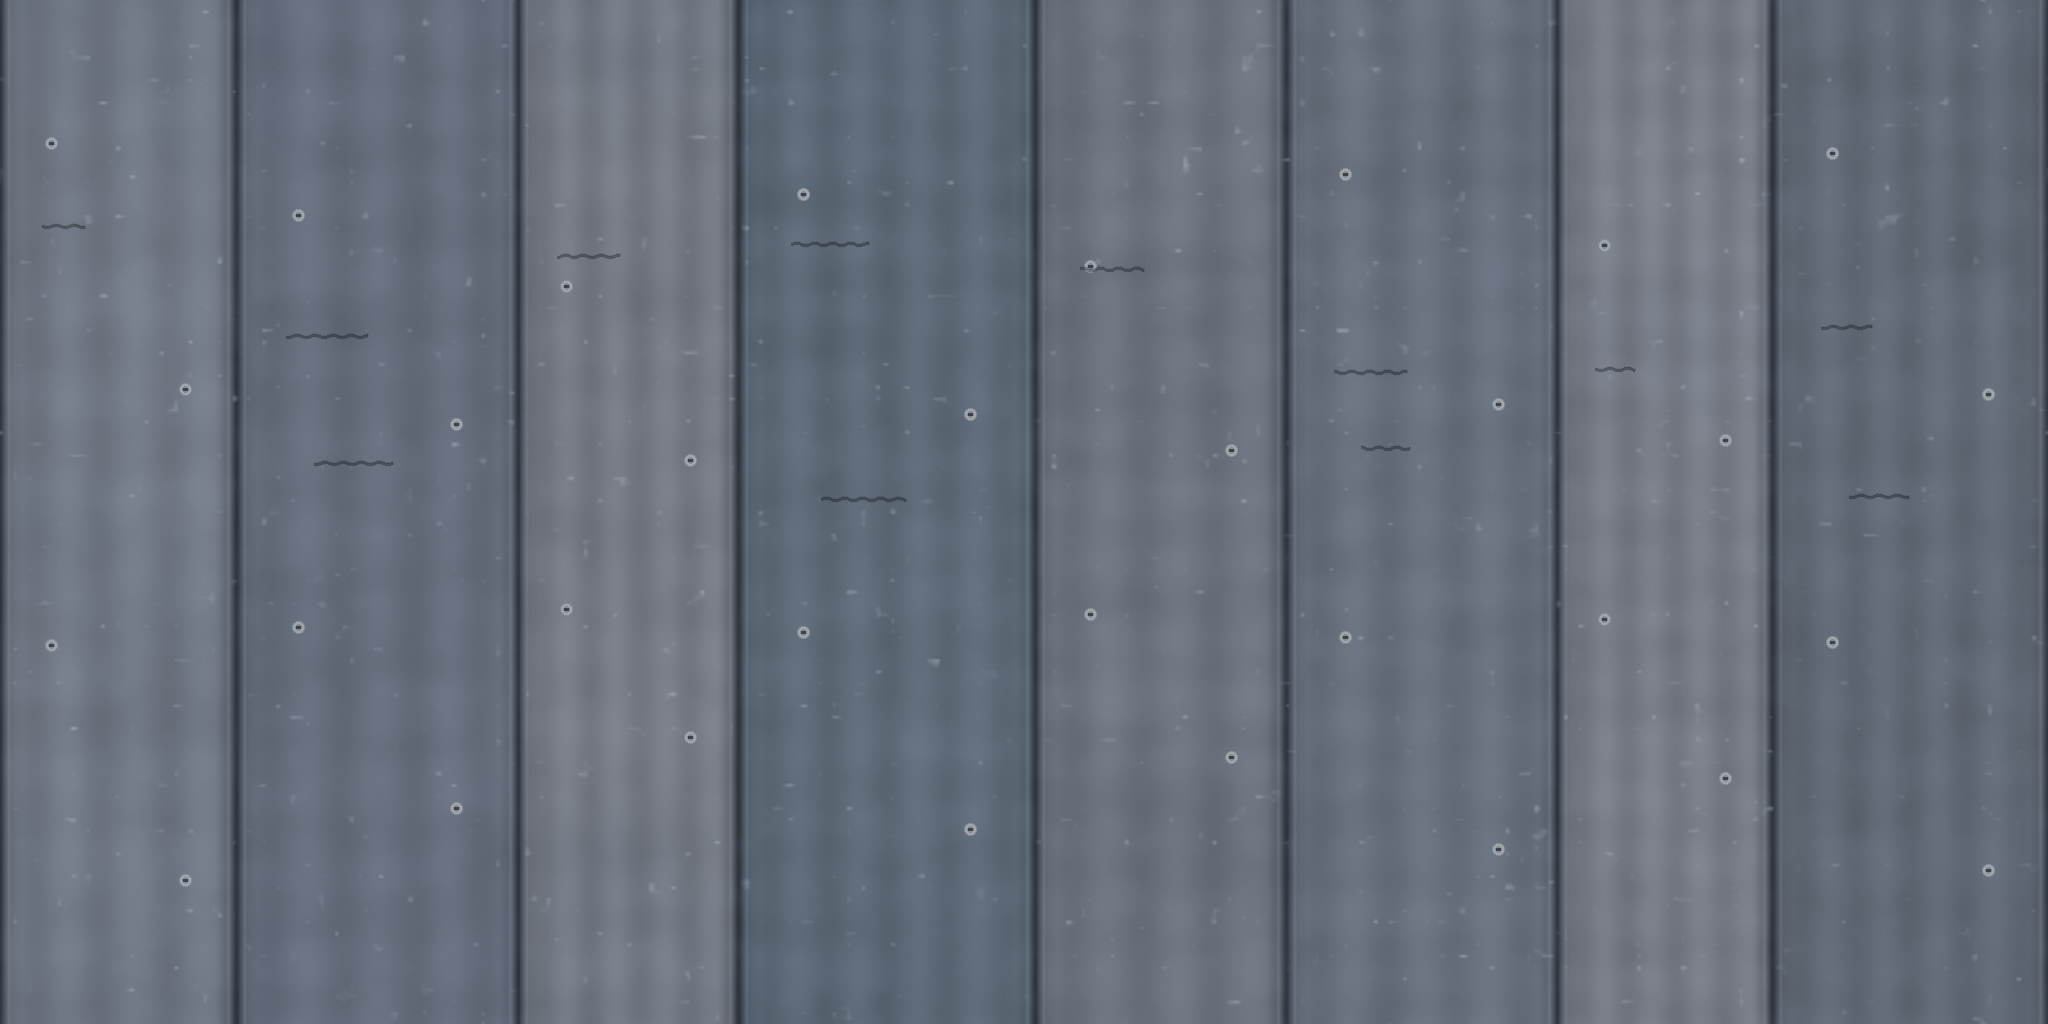
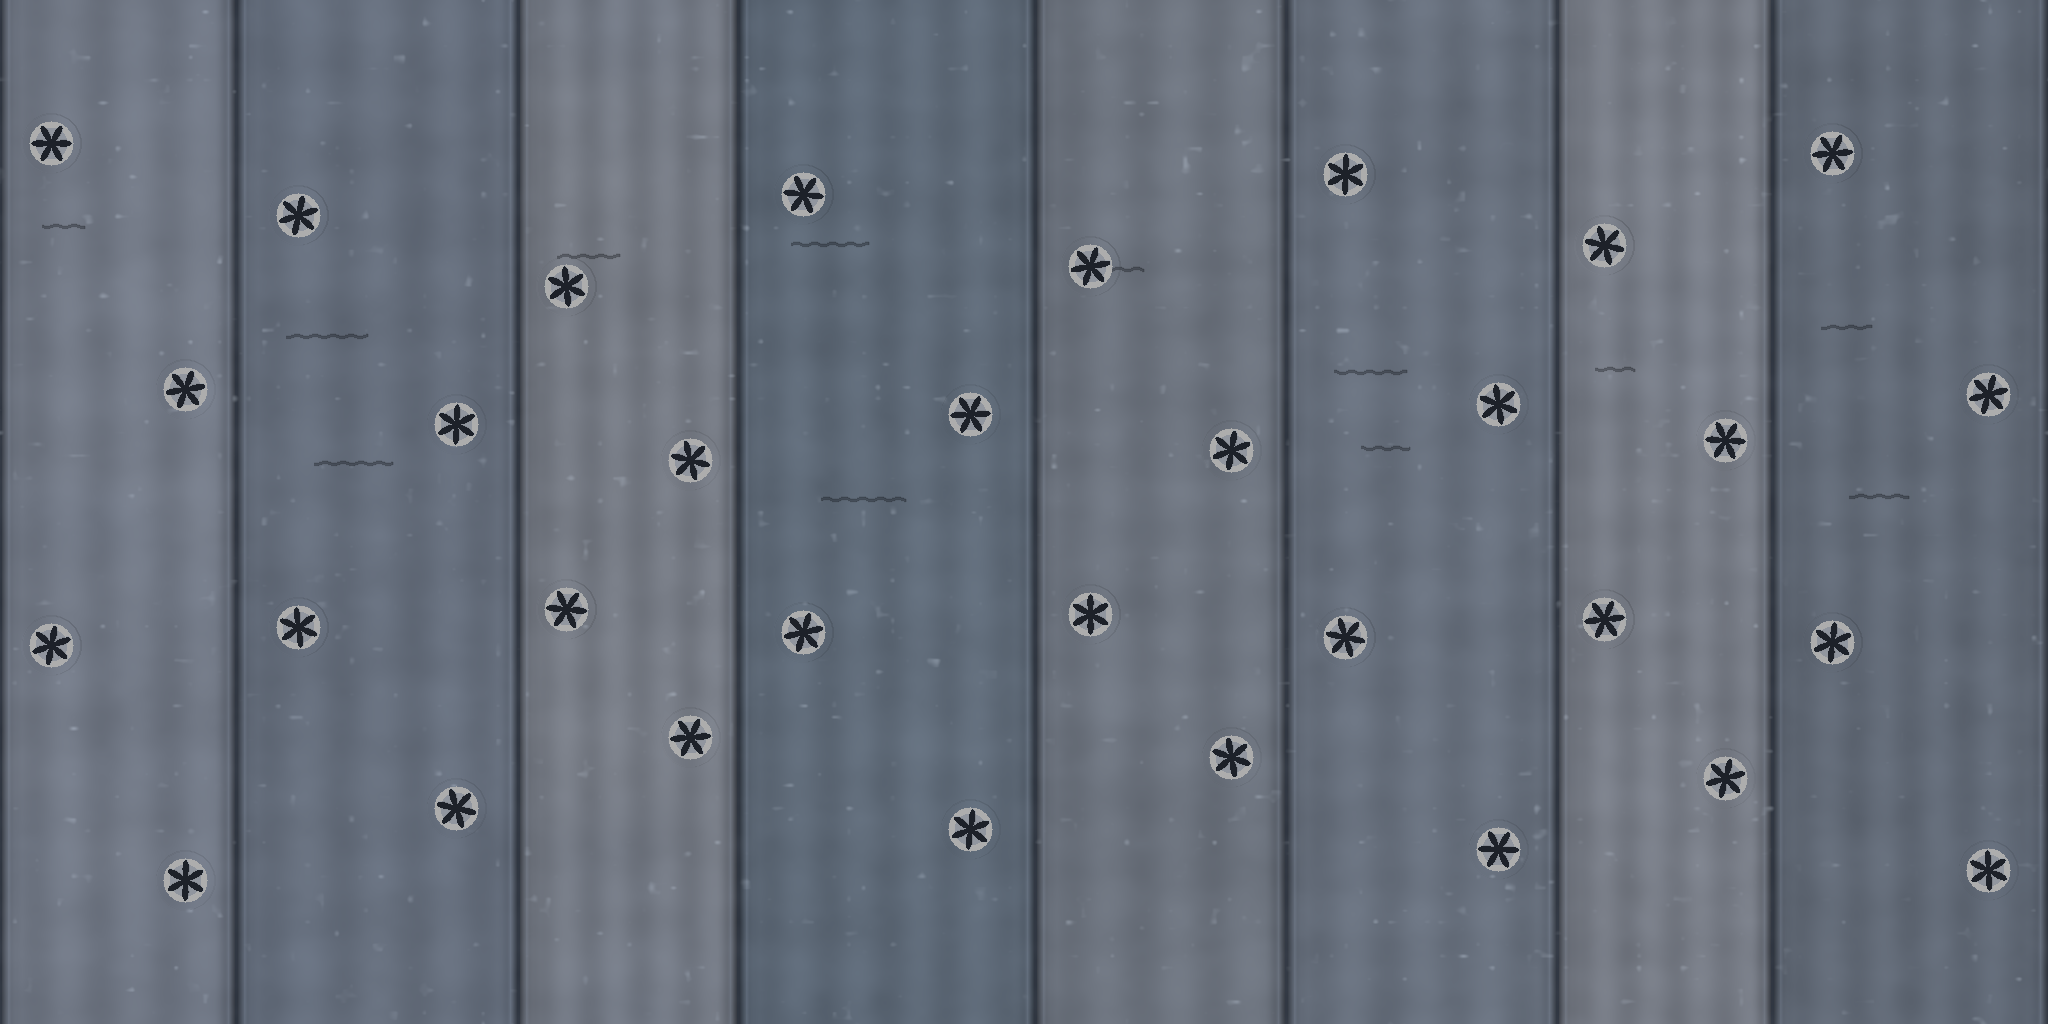
Harbor: star-bit screws on the quay deck plates
Replace the slotted fastener recess with a six-lobe star so the promenade heads read as Torx-style screws up close and from above.

diff --git a/harbor.html b/harbor.html
@@ -2546,7 +2546,7 @@ function prepDeckData(tex) {
   return tex;
 }
 window.__quayDeck = { ready: false, repeat: [10, 2] };
-const deckCache = location.protocol === 'file:' ? '' : '?v=deck1';
+const deckCache = location.protocol === 'file:' ? '' : '?v=deck2';
 Promise.all([
   atlasLoader.loadAsync(new URL('quay-deck-atlas.png' + deckCache, atlasBase).href),
   atlasLoader.loadAsync(new URL('quay-deck-normal.png' + deckCache, atlasBase).href),

diff --git a/scripts/gen-quay-deck-atlas.py b/scripts/gen-quay-deck-atlas.py
@@ -80,6 +80,44 @@ def normals_from_height(height, strength):
     return nx / ln, ny / ln, nz / ln
 
 
+def paint_star_screw(height, albedo, rough, recess_mask, rim_mask, cy, cx, radius, rotation):
+    """Countersunk 6-lobe (star-bit) recess. One connected hexalobe, not a slot, cross, or hex."""
+    r = int(np.ceil(radius * 1.45)) + 2
+    yy, xx = np.mgrid[-r : r + 1, -r : r + 1].astype(np.float32)
+    dist = np.sqrt(yy * yy + xx * xx)
+    ang = np.arctan2(yy, xx) + rotation
+    # ISO-style hexalobe: r = a + b cos(6θ). Waist is pinched so six lobes read.
+    lobe = np.cos(6.0 * ang)
+    recess_r = radius * (0.56 + 0.36 * lobe)
+    head = dist <= radius
+    recess = dist <= recess_r
+    rim = head & (dist >= radius * 0.72) & ~recess
+    bevel = (dist > radius) & (dist <= radius * 1.34)
+    ys = np.mod(cy + yy.astype(np.int32), height.shape[0])
+    xs = np.mod(cx + xx.astype(np.int32), height.shape[1])
+
+    h = height[ys, xs]
+    dome = np.clip(1.0 - dist / max(radius, 1.0), 0.0, 1.0)
+    h = np.where(head, np.maximum(h, 0.62) * 0.55 + 0.28 + dome * 0.08, h)
+    depth = np.clip((recess_r - dist) / (radius * 0.42), 0.0, 1.0)
+    h = np.where(recess, 0.34 - depth * 0.28, h)
+    bev = np.clip((radius * 1.34 - dist) / (radius * 0.34), 0.0, 1.0)
+    h = np.where(bevel, h * (0.62 + 0.38 * bev), h)
+    height[ys, xs] = h
+
+    metal = np.array([0.24, 0.255, 0.285], dtype=np.float32)
+    recess_col = np.array([0.010, 0.012, 0.018], dtype=np.float32)
+    rim_col = np.array([0.36, 0.385, 0.42], dtype=np.float32)
+    albedo[ys[head], xs[head]] = metal
+    albedo[ys[rim], xs[rim]] = rim_col
+    albedo[ys[recess], xs[recess]] = recess_col
+    rough[ys[head], xs[head]] = 0.18
+    rough[ys[rim], xs[rim]] = 0.10
+    rough[ys[recess], xs[recess]] = 0.72
+    recess_mask[ys[recess], xs[recess]] = True
+    rim_mask[ys[rim], xs[rim]] = True
+
+
 def stamp_disk(field, cy, cx, radius, profile):
     """Add profile(dist) into field, wrapping Y and X so the tile stays periodic."""
     r = int(np.ceil(radius)) + 1
@@ -218,45 +256,6 @@ def main():
     rough = np.clip(rough - damp * 0.10, 0.08, 0.98)
     height -= damp * 0.03
 
-    # Countersunk bolts. Inset from joints; staggered so the repeat is not a grid.
-    for i in range(N_PLANKS):
-        a, b = int(edges[i]), int(edges[i + 1])
-        span = b - a
-        inset = max(10, int(span * 0.22))
-        cols = (a + inset, b - inset)
-        # Four stations along the sheet. Offset per board, kept off the V wrap.
-        phase = (0.07 * i) % 0.16
-        stations = (0.14 + phase, 0.38 + phase * 0.5, 0.63 - phase * 0.25, 0.86 - phase)
-        for si, v in enumerate(stations):
-            cy = int(v * H) % H
-            cx = cols[si % 2]
-            radius = 6.5
-
-            def head(dist, radius=radius):
-                ring = np.clip(1.0 - np.abs(dist - radius * 0.72) / 1.6, 0.0, 1.0)
-                bowl = np.clip(1.0 - dist / radius, 0.0, 1.0)
-                return bowl * 0.10 + ring * 0.12
-
-            stamp_disk(height, cy, cx, radius, head)
-
-            r = 8
-            yy, xx = np.mgrid[-r : r + 1, -r : r + 1]
-            dist = np.sqrt(yy * yy + xx * xx)
-            mask = dist <= radius
-            slot = (np.abs(yy) <= 1.1) & (np.abs(xx) <= radius * 0.45)
-            metal = np.array([0.20, 0.215, 0.24], dtype=np.float32)
-            slot_col = np.array([0.03, 0.034, 0.042], dtype=np.float32)
-            ys = (cy + yy) % H
-            xs = (cx + xx) % W
-            albedo[ys[mask], xs[mask]] = metal
-            albedo[ys[slot], xs[slot]] = slot_col
-            rough[ys[mask], xs[mask]] = 0.22
-            rough[ys[slot], xs[slot]] = 0.55
-            # Raised rim catch.
-            rim = (dist >= radius * 0.55) & (dist <= radius * 0.85)
-            albedo[ys[rim], xs[rim]] = np.array([0.30, 0.325, 0.36], dtype=np.float32)
-            rough[ys[rim], xs[rim]] = 0.16
-
     # Short splits, one or two per board, away from the tile edge.
     for i in range(N_PLANKS):
         a, b = int(edges[i]), int(edges[i + 1])
@@ -279,6 +278,26 @@ def main():
     height += ((fine - 0.5) * 0.045 + (grit_n - 0.5) * 0.02) * (1.0 - gap[None, :])
     height = np.clip(height, 0.0, 1.2)
 
+    # Star-bit screws after grit and splits so the 6-lobe recess stays crisp.
+    # Inset from joints; staggered so the repeat is not a grid.
+    recess_mask = np.zeros((H, W), dtype=bool)
+    rim_mask = np.zeros((H, W), dtype=bool)
+    screw_radius = 22.0
+    for i in range(N_PLANKS):
+        a, b = int(edges[i]), int(edges[i + 1])
+        span = b - a
+        inset = max(int(screw_radius * 1.5), int(span * 0.22))
+        cols = (a + inset, b - inset)
+        phase = (0.07 * i) % 0.16
+        stations = (0.14 + phase, 0.38 + phase * 0.5, 0.63 - phase * 0.25, 0.86 - phase)
+        for si, v in enumerate(stations):
+            cy = int(v * H) % H
+            cx = int(cols[si % 2])
+            paint_star_screw(
+                height, albedo, rough, recess_mask, rim_mask,
+                cy, cx, screw_radius, rotation=0.31 * i + 0.17 * si,
+            )
+
     # Bake a cool key into the albedo so seams read even before the spec term.
     nx, ny, nz = normals_from_height(height, strength=5.5)
     ndl = np.clip(nx * 0.42 + ny * 0.22 + nz * 0.88, 0.0, 1.0)
@@ -286,6 +305,9 @@ def main():
     # Hemispheric cool fill, so groove bottoms are not crushed to black.
     albedo += nz[..., None] * np.array([0.012, 0.016, 0.024], dtype=np.float32)
     albedo = np.clip(albedo, 0.0, 0.42)
+    # Re-assert the star after the bake so lobe floors stay darker than the head.
+    albedo[recess_mask] = np.array([0.012, 0.015, 0.022], dtype=np.float32)
+    albedo[rim_mask] = np.maximum(albedo[rim_mask], np.array([0.30, 0.325, 0.36], dtype=np.float32))
 
     # Recompute normals after the albedo bake used the same height.
     nx, ny, nz = normals_from_height(height, strength=6.0)
